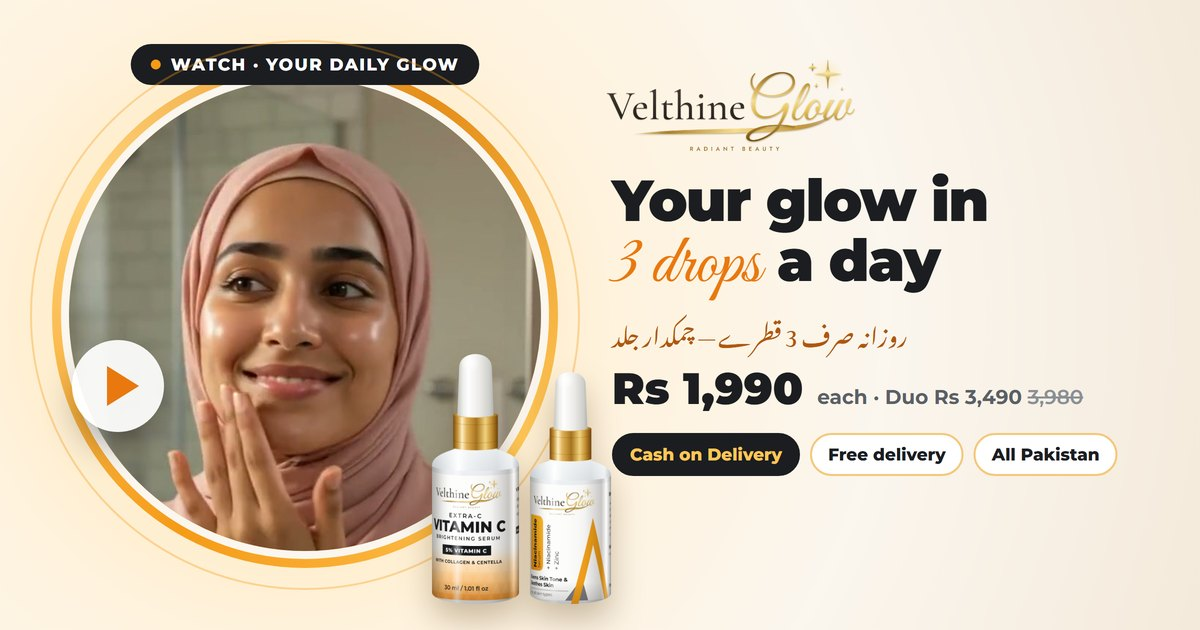
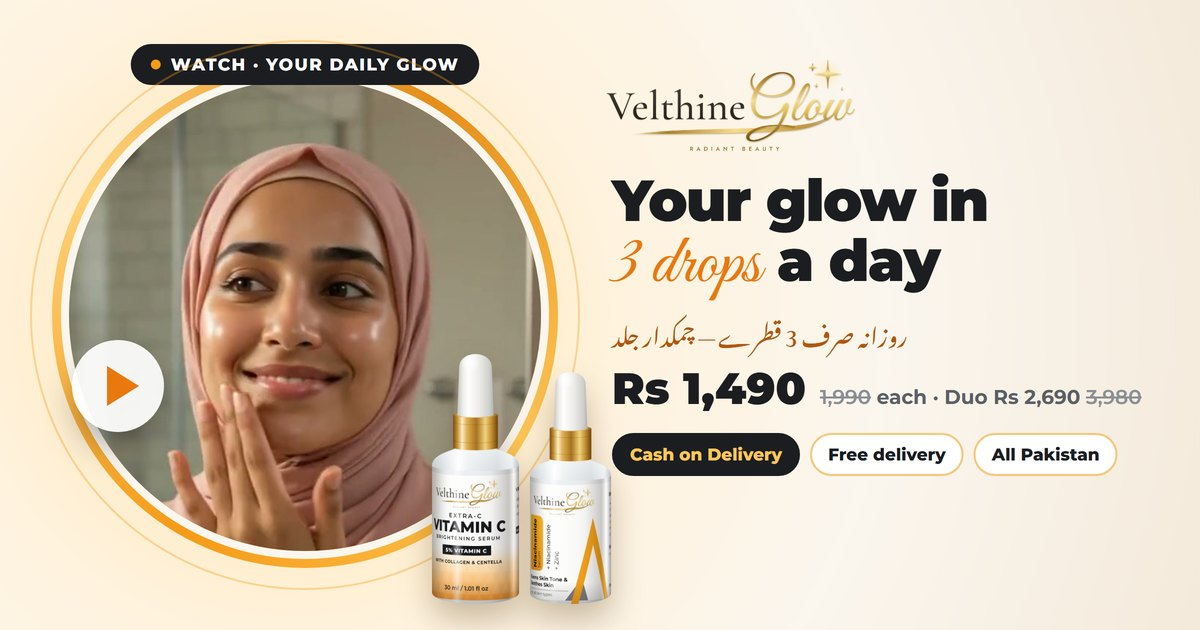
Prices: Rs 1,490 each (was 1,990), Glow Duo Rs 2,690 (was 3,980); schema, share card, llms.txt

Changed region(s): [[0.5858, 0.573, 0.9558, 0.6635]]

diff --git a/index.html b/index.html
@@ -4,7 +4,7 @@
 <meta charset="utf-8">
 <meta name="viewport" content="width=device-width, initial-scale=1">
 <title>Vitamin C &amp; Niacinamide Serum Price in Pakistan | VelthineGlow</title>
-<meta name="description" content="Dermatologist-tested vitamin C serum for glowing skin and niacinamide 10% + zinc 1% serum for oily skin. Rs 1,990 each. Cash on Delivery all over Pakistan.">
+<meta name="description" content="Dermatologist-tested vitamin C serum for glowing skin and niacinamide 10% + zinc 1% serum for oily skin. Rs 1,490 each. Cash on Delivery all over Pakistan.">
 <meta name="keywords" content="dermatologist tested serum, vitamin c serum, vitamin c serum price in pakistan, best vitamin c serum in pakistan, niacinamide serum, niacinamide serum price in pakistan, niacinamide 10% zinc 1% serum">
 <meta name="robots" content="index, follow, max-image-preview:large, max-snippet:-1">
 <link rel="canonical" href="https://velthineglow.com/">
@@ -17,7 +17,7 @@
 <meta name="theme-color" content="#F5A21B">
 <meta property="og:type" content="website">
 <meta property="og:site_name" content="VelthineGlow">
-<meta property="og:title" content="Your Glow in 3 Drops a Day | Rs 1,990 · Cash on Delivery | VelthineGlow">
+<meta property="og:title" content="Your Glow in 3 Drops a Day | Rs 1,490 · Cash on Delivery | VelthineGlow">
 <meta property="og:description" content="Dull skin, oily skin or dark spots? Vitamin C for the morning + Niacinamide 10% for the night. Free delivery and Cash on Delivery all over Pakistan. Order on WhatsApp in 1 minute.">
 <meta property="og:url" content="https://velthineglow.com/">
 <meta property="og:image" content="https://velthineglow.com/img/og-share.jpg">
@@ -25,7 +25,7 @@
 <meta property="og:image:type" content="image/jpeg">
 <meta property="og:image:width" content="1200">
 <meta property="og:image:height" content="630">
-<meta property="og:image:alt" content="VelthineGlow: watch the 3-drop daily glow routine. Vitamin C and Niacinamide serums, Rs 1,990 each, Cash on Delivery">
+<meta property="og:image:alt" content="VelthineGlow: watch the 3-drop daily glow routine. Vitamin C and Niacinamide serums, Rs 1,490 each, Cash on Delivery">
 <meta property="og:video" content="https://velthineglow.com/img/hero-glow.mp4">
 <meta property="og:video:secure_url" content="https://velthineglow.com/img/hero-glow.mp4">
 <meta property="og:video:type" content="video/mp4">
@@ -33,15 +33,15 @@
 <meta property="og:video:height" content="640">
 <meta property="og:locale" content="en_PK">
 <meta name="twitter:card" content="summary_large_image">
-<meta name="twitter:title" content="Your Glow in 3 Drops a Day | Rs 1,990 · Cash on Delivery | VelthineGlow">
+<meta name="twitter:title" content="Your Glow in 3 Drops a Day | Rs 1,490 · Cash on Delivery | VelthineGlow">
 <meta name="twitter:description" content="Dull skin, oily skin or dark spots? Vitamin C for the morning + Niacinamide 10% for the night. Free delivery and Cash on Delivery all over Pakistan. Order on WhatsApp in 1 minute.">
 <meta name="twitter:image" content="https://velthineglow.com/img/og-share.jpg">
-<meta name="twitter:image:alt" content="VelthineGlow: watch the 3-drop daily glow routine. Vitamin C and Niacinamide serums, Rs 1,990 each, Cash on Delivery">
+<meta name="twitter:image:alt" content="VelthineGlow: watch the 3-drop daily glow routine. Vitamin C and Niacinamide serums, Rs 1,490 each, Cash on Delivery">
 <link rel="preconnect" href="https://fonts.googleapis.com">
 <link rel="preconnect" href="https://fonts.gstatic.com" crossorigin>
 <link href="https://fonts.googleapis.com/css2?family=Montserrat:wght@400;500;600;700;800;900&family=Cormorant+Garamond:wght@700&family=Great+Vibes&family=Noto+Nastaliq+Urdu&display=swap" rel="stylesheet">
 <link rel="preload" as="image" href="img/logo-mark.webp" type="image/webp">
-<link rel="stylesheet" href="style.css?v=20261028x">
+<link rel="stylesheet" href="style.css?v=20261030p">
 <script type="application/ld+json">
 {
  "@context": "https://schema.org",
@@ -99,7 +99,7 @@
    "@id": "https://velthineglow.com/#webpage",
    "url": "https://velthineglow.com/",
    "name": "Vitamin C & Niacinamide Serum Price in Pakistan | VelthineGlow",
-   "description": "Dermatologist-tested vitamin C serum for glowing skin and niacinamide 10% + zinc 1% serum for oily skin. Rs 1,990 each. Cash on Delivery all over Pakistan.",
+   "description": "Dermatologist-tested vitamin C serum for glowing skin and niacinamide 10% + zinc 1% serum for oily skin. Rs 1,490 each. Cash on Delivery all over Pakistan.",
    "inLanguage": "en-PK",
    "isPartOf": {
     "@id": "https://velthineglow.com/#website"
@@ -138,7 +138,7 @@
    "offers": {
     "@type": "Offer",
     "url": "https://velthineglow.com/#order",
-    "price": "1990",
+    "price": "1490",
     "priceCurrency": "PKR",
     "priceValidUntil": "2027-12-31",
     "availability": "https://schema.org/InStock",
@@ -210,7 +210,7 @@
    "offers": {
     "@type": "Offer",
     "url": "https://velthineglow.com/#order",
-    "price": "1990",
+    "price": "1490",
     "priceCurrency": "PKR",
     "priceValidUntil": "2027-12-31",
     "availability": "https://schema.org/InStock",
@@ -287,7 +287,7 @@
    "offers": {
     "@type": "Offer",
     "url": "https://velthineglow.com/#order",
-    "price": "3490",
+    "price": "2690",
     "priceCurrency": "PKR",
     "priceValidUntil": "2027-12-31",
     "availability": "https://schema.org/InStock",
@@ -425,7 +425,7 @@
      "name": "What is the vitamin C serum price in Pakistan?",
      "acceptedAnswer": {
       "@type": "Answer",
-      "text": "Our Extra-C Vitamin C Serum (30 ml) costs Rs 1,990, with Cash on Delivery all over Pakistan. Get it with the niacinamide serum in the Glow Duo for Rs 3,490."
+      "text": "Our Extra-C Vitamin C Serum (30 ml) costs Rs 1,490, with Cash on Delivery all over Pakistan. Get it with the niacinamide serum in the Glow Duo for Rs 2,690."
      }
     },
     {
@@ -433,7 +433,7 @@
      "name": "What is the niacinamide serum price in Pakistan?",
      "acceptedAnswer": {
       "@type": "Answer",
-      "text": "Our Niacinamide 10% + Zinc 1% Serum (30 ml) costs Rs 1,990. Delivery is free all over Pakistan."
+      "text": "Our Niacinamide 10% + Zinc 1% Serum (30 ml) costs Rs 1,490. Delivery is free all over Pakistan."
      }
     },
     {
@@ -556,16 +556,16 @@
   <div class="topbar-track">
     <span><svg class="ic ic-tb" viewBox="0 0 24 24" width="24" height="24" fill="none" stroke="currentColor" stroke-width="2" stroke-linecap="round" stroke-linejoin="round" aria-hidden="true"><path d="M14 18V6a2 2 0 0 0-2-2H4a2 2 0 0 0-2 2v11a1 1 0 0 0 1 1h2"/><path d="M15 18H9"/><path d="M19 18h2a1 1 0 0 0 1-1v-3.65a1 1 0 0 0-.22-.62l-3.48-4.35A1 1 0 0 0 17.52 8H14"/><circle cx="17" cy="18" r="2"/><circle cx="7" cy="18" r="2"/></svg> Free delivery all over Pakistan — on every order</span>
     <span><svg class="ic ic-tb" viewBox="0 0 24 24" width="24" height="24" fill="none" stroke="currentColor" stroke-width="2" stroke-linecap="round" stroke-linejoin="round" aria-hidden="true"><rect width="20" height="12" x="2" y="6" rx="2"/><circle cx="12" cy="12" r="2"/><path d="M6 12h.01M18 12h.01"/></svg> Cash on Delivery — pay when you get it</span>
-    <span><svg class="ic ic-tb" viewBox="0 0 24 24" width="24" height="24" fill="none" stroke="currentColor" stroke-width="2" stroke-linecap="round" stroke-linejoin="round" aria-hidden="true"><path d="M9.94 15.5A2 2 0 0 0 8.5 14.06l-6.13-1.58a.5.5 0 0 1 0-.96L8.5 9.94A2 2 0 0 0 9.94 8.5l1.58-6.13a.5.5 0 0 1 .96 0L14.06 8.5A2 2 0 0 0 15.5 9.94l6.13 1.58a.5.5 0 0 1 0 .96L15.5 14.06a2 2 0 0 0-1.44 1.44l-1.58 6.13a.5.5 0 0 1-.96 0z"/></svg> This week's Glow Duo offer: save Rs 490</span>
+    <span><svg class="ic ic-tb" viewBox="0 0 24 24" width="24" height="24" fill="none" stroke="currentColor" stroke-width="2" stroke-linecap="round" stroke-linejoin="round" aria-hidden="true"><path d="M9.94 15.5A2 2 0 0 0 8.5 14.06l-6.13-1.58a.5.5 0 0 1 0-.96L8.5 9.94A2 2 0 0 0 9.94 8.5l1.58-6.13a.5.5 0 0 1 .96 0L14.06 8.5A2 2 0 0 0 15.5 9.94l6.13 1.58a.5.5 0 0 1 0 .96L15.5 14.06a2 2 0 0 0-1.44 1.44l-1.58 6.13a.5.5 0 0 1-.96 0z"/></svg> This week's Glow Duo offer: save Rs 1,290</span>
     <span class="ur-in" lang="ur" dir="rtl"><svg class="ic ic-tb" viewBox="0 0 24 24" width="24" height="24" fill="none" stroke="currentColor" stroke-width="2" stroke-linecap="round" stroke-linejoin="round" aria-hidden="true"><path d="M14 18V6a2 2 0 0 0-2-2H4a2 2 0 0 0-2 2v11a1 1 0 0 0 1 1h2"/><path d="M15 18H9"/><path d="M19 18h2a1 1 0 0 0 1-1v-3.65a1 1 0 0 0-.22-.62l-3.48-4.35A1 1 0 0 0 17.52 8H14"/><circle cx="17" cy="18" r="2"/><circle cx="7" cy="18" r="2"/></svg> پورے پاکستان میں ہر آرڈر پر فری ڈیلیوری</span>
     <span class="ur-in" lang="ur" dir="rtl"><svg class="ic ic-tb" viewBox="0 0 24 24" width="24" height="24" fill="none" stroke="currentColor" stroke-width="2" stroke-linecap="round" stroke-linejoin="round" aria-hidden="true"><rect width="20" height="12" x="2" y="6" rx="2"/><circle cx="12" cy="12" r="2"/><path d="M6 12h.01M18 12h.01"/></svg> کیش آن ڈیلیوری — پارسل ملے تو پیسے دیں</span>
-    <span class="ur-in" lang="ur" dir="rtl"><svg class="ic ic-tb" viewBox="0 0 24 24" width="24" height="24" fill="none" stroke="currentColor" stroke-width="2" stroke-linecap="round" stroke-linejoin="round" aria-hidden="true"><path d="M9.94 15.5A2 2 0 0 0 8.5 14.06l-6.13-1.58a.5.5 0 0 1 0-.96L8.5 9.94A2 2 0 0 0 9.94 8.5l1.58-6.13a.5.5 0 0 1 .96 0L14.06 8.5A2 2 0 0 0 15.5 9.94l6.13 1.58a.5.5 0 0 1 0 .96L15.5 14.06a2 2 0 0 0-1.44 1.44l-1.58 6.13a.5.5 0 0 1-.96 0z"/></svg> اس ہفتے گلو ڈو پر 490 روپے کی بچت</span>
+    <span class="ur-in" lang="ur" dir="rtl"><svg class="ic ic-tb" viewBox="0 0 24 24" width="24" height="24" fill="none" stroke="currentColor" stroke-width="2" stroke-linecap="round" stroke-linejoin="round" aria-hidden="true"><path d="M9.94 15.5A2 2 0 0 0 8.5 14.06l-6.13-1.58a.5.5 0 0 1 0-.96L8.5 9.94A2 2 0 0 0 9.94 8.5l1.58-6.13a.5.5 0 0 1 .96 0L14.06 8.5A2 2 0 0 0 15.5 9.94l6.13 1.58a.5.5 0 0 1 0 .96L15.5 14.06a2 2 0 0 0-1.44 1.44l-1.58 6.13a.5.5 0 0 1-.96 0z"/></svg> اس ہفتے گلو ڈو پر 1,290 روپے کی بچت</span>
     <span><svg class="ic ic-tb" viewBox="0 0 24 24" width="24" height="24" fill="none" stroke="currentColor" stroke-width="2" stroke-linecap="round" stroke-linejoin="round" aria-hidden="true"><path d="M14 18V6a2 2 0 0 0-2-2H4a2 2 0 0 0-2 2v11a1 1 0 0 0 1 1h2"/><path d="M15 18H9"/><path d="M19 18h2a1 1 0 0 0 1-1v-3.65a1 1 0 0 0-.22-.62l-3.48-4.35A1 1 0 0 0 17.52 8H14"/><circle cx="17" cy="18" r="2"/><circle cx="7" cy="18" r="2"/></svg> Free delivery all over Pakistan — on every order</span>
     <span><svg class="ic ic-tb" viewBox="0 0 24 24" width="24" height="24" fill="none" stroke="currentColor" stroke-width="2" stroke-linecap="round" stroke-linejoin="round" aria-hidden="true"><rect width="20" height="12" x="2" y="6" rx="2"/><circle cx="12" cy="12" r="2"/><path d="M6 12h.01M18 12h.01"/></svg> Cash on Delivery — pay when you get it</span>
-    <span><svg class="ic ic-tb" viewBox="0 0 24 24" width="24" height="24" fill="none" stroke="currentColor" stroke-width="2" stroke-linecap="round" stroke-linejoin="round" aria-hidden="true"><path d="M9.94 15.5A2 2 0 0 0 8.5 14.06l-6.13-1.58a.5.5 0 0 1 0-.96L8.5 9.94A2 2 0 0 0 9.94 8.5l1.58-6.13a.5.5 0 0 1 .96 0L14.06 8.5A2 2 0 0 0 15.5 9.94l6.13 1.58a.5.5 0 0 1 0 .96L15.5 14.06a2 2 0 0 0-1.44 1.44l-1.58 6.13a.5.5 0 0 1-.96 0z"/></svg> This week's Glow Duo offer: save Rs 490</span>
+    <span><svg class="ic ic-tb" viewBox="0 0 24 24" width="24" height="24" fill="none" stroke="currentColor" stroke-width="2" stroke-linecap="round" stroke-linejoin="round" aria-hidden="true"><path d="M9.94 15.5A2 2 0 0 0 8.5 14.06l-6.13-1.58a.5.5 0 0 1 0-.96L8.5 9.94A2 2 0 0 0 9.94 8.5l1.58-6.13a.5.5 0 0 1 .96 0L14.06 8.5A2 2 0 0 0 15.5 9.94l6.13 1.58a.5.5 0 0 1 0 .96L15.5 14.06a2 2 0 0 0-1.44 1.44l-1.58 6.13a.5.5 0 0 1-.96 0z"/></svg> This week's Glow Duo offer: save Rs 1,290</span>
     <span class="ur-in" lang="ur" dir="rtl"><svg class="ic ic-tb" viewBox="0 0 24 24" width="24" height="24" fill="none" stroke="currentColor" stroke-width="2" stroke-linecap="round" stroke-linejoin="round" aria-hidden="true"><path d="M14 18V6a2 2 0 0 0-2-2H4a2 2 0 0 0-2 2v11a1 1 0 0 0 1 1h2"/><path d="M15 18H9"/><path d="M19 18h2a1 1 0 0 0 1-1v-3.65a1 1 0 0 0-.22-.62l-3.48-4.35A1 1 0 0 0 17.52 8H14"/><circle cx="17" cy="18" r="2"/><circle cx="7" cy="18" r="2"/></svg> پورے پاکستان میں ہر آرڈر پر فری ڈیلیوری</span>
     <span class="ur-in" lang="ur" dir="rtl"><svg class="ic ic-tb" viewBox="0 0 24 24" width="24" height="24" fill="none" stroke="currentColor" stroke-width="2" stroke-linecap="round" stroke-linejoin="round" aria-hidden="true"><rect width="20" height="12" x="2" y="6" rx="2"/><circle cx="12" cy="12" r="2"/><path d="M6 12h.01M18 12h.01"/></svg> کیش آن ڈیلیوری — پارسل ملے تو پیسے دیں</span>
-    <span class="ur-in" lang="ur" dir="rtl"><svg class="ic ic-tb" viewBox="0 0 24 24" width="24" height="24" fill="none" stroke="currentColor" stroke-width="2" stroke-linecap="round" stroke-linejoin="round" aria-hidden="true"><path d="M9.94 15.5A2 2 0 0 0 8.5 14.06l-6.13-1.58a.5.5 0 0 1 0-.96L8.5 9.94A2 2 0 0 0 9.94 8.5l1.58-6.13a.5.5 0 0 1 .96 0L14.06 8.5A2 2 0 0 0 15.5 9.94l6.13 1.58a.5.5 0 0 1 0 .96L15.5 14.06a2 2 0 0 0-1.44 1.44l-1.58 6.13a.5.5 0 0 1-.96 0z"/></svg> اس ہفتے گلو ڈو پر 490 روپے کی بچت</span>
+    <span class="ur-in" lang="ur" dir="rtl"><svg class="ic ic-tb" viewBox="0 0 24 24" width="24" height="24" fill="none" stroke="currentColor" stroke-width="2" stroke-linecap="round" stroke-linejoin="round" aria-hidden="true"><path d="M9.94 15.5A2 2 0 0 0 8.5 14.06l-6.13-1.58a.5.5 0 0 1 0-.96L8.5 9.94A2 2 0 0 0 9.94 8.5l1.58-6.13a.5.5 0 0 1 .96 0L14.06 8.5A2 2 0 0 0 15.5 9.94l6.13 1.58a.5.5 0 0 1 0 .96L15.5 14.06a2 2 0 0 0-1.44 1.44l-1.58 6.13a.5.5 0 0 1-.96 0z"/></svg> اس ہفتے گلو ڈو پر 1,290 روپے کی بچت</span>
   </div>
 </div>
 
@@ -607,9 +607,9 @@
     <p class="lead">Our niacinamide serum (10% Niacinamide + 1% Zinc) is for oily skin, open pores and dark patches. Our vitamin C serum is for glowing skin and an even skin tone. Simple to use and gentle on all skin types.</p>
 
     <div class="hero-price">
-      <div><small>Each serum</small><strong>Rs 1,990</strong></div>
+      <div><small>Each serum</small><strong>Rs 1,490 <s>Rs 1,990</s></strong></div>
       <div class="sep"></div>
-      <div><small>Glow Duo</small><strong>Rs 3,490 <s>Rs 3,980</s></strong></div>
+      <div><small>Glow Duo</small><strong>Rs 2,690 <s>Rs 3,980</s></strong></div>
     </div>
 
     <div class="hero-cta">
@@ -665,7 +665,7 @@
           <li>Soothes skin and makes the skin barrier stronger<span class="ur" lang="ur" dir="rtl">اسکن کو سکون دیتا ہے اور اسکن بیریئر مضبوط کرتا ہے</span></li>
         </ul>
         <div class="pcard-foot">
-          <div class="price"><strong>Rs 1,990</strong><small>Niacinamide serum price in Pakistan · 30 ml</small></div>
+          <div class="price"><strong>Rs 1,490 <s>Rs 1,990</s></strong><small>Niacinamide serum price in Pakistan · 30 ml</small></div>
           <a href="#order" class="btn btn-orange js-pick" data-pick="niac">Order this</a>
         </div>
       </div>
@@ -687,7 +687,7 @@
           <li>Light, fast-absorbing and hydrating<span class="ur" lang="ur" dir="rtl">ہلکا، فوراً جذب ہو جاتا ہے اور اسکن کو نمی دیتا ہے</span></li>
         </ul>
         <div class="pcard-foot">
-          <div class="price"><strong>Rs 1,990</strong><small>Vitamin C serum price in Pakistan · 30 ml</small></div>
+          <div class="price"><strong>Rs 1,490 <s>Rs 1,990</s></strong><small>Vitamin C serum price in Pakistan · 30 ml</small></div>
           <a href="#order" class="btn btn-orange js-pick" data-pick="vitc">Order this</a>
         </div>
       </div>
@@ -823,7 +823,7 @@
       <h2>The Glow Duo</h2>
       <p class="duo-sub">Vitamin C + Niacinamide · <span class="ur-in" lang="ur" dir="rtl">وٹامن سی + نیاسینامائیڈ</span></p>
       <p>Get both serums together — Vitamin C for the morning, Niacinamide for the night. Free delivery included.<span class="ur" lang="ur" dir="rtl">دونوں سیرم اکٹھے لیں — صبح کے لیے وٹامن سی، رات کے لیے نیاسینامائیڈ۔ ڈیلیوری بالکل فری۔</span></p>
-      <div class="deal-price"><strong>Rs 3,490</strong><s>Rs 3,980</s><span class="save">Save Rs 490</span></div>
+      <div class="deal-price"><strong>Rs 2,690</strong><s>Rs 3,980</s><span class="save">Save Rs 1,290</span></div>
       <div class="countdown" id="countdown" aria-live="polite">
         <div><b id="cdD">00</b><small>Days<span class="ur-in" lang="ur" dir="rtl">دن</span></small></div>
         <div><b id="cdH">00</b><small>Hours<span class="ur-in" lang="ur" dir="rtl">گھنٹے</span></small></div>
@@ -870,9 +870,9 @@
 
     <form class="oform reveal" id="orderForm" novalidate>
       <div class="lines">
-        <div class="line" data-id="niac"><div class="ln-info"><b>Niacinamide 10% + Zinc 1% Serum</b><small>Rs 1,990</small></div><div class="qty"><button type="button" data-d="-1" aria-label="Less">−</button><span>0</span><button type="button" data-d="1" aria-label="More">+</button></div></div>
-        <div class="line" data-id="vitc"><div class="ln-info"><b>Extra-C Vitamin C Serum</b><small>Rs 1,990</small></div><div class="qty"><button type="button" data-d="-1" aria-label="Less">−</button><span>0</span><button type="button" data-d="1" aria-label="More">+</button></div></div>
-        <div class="line best" data-id="duo"><div class="ln-info"><b>Glow Duo (both) <em>Best value</em></b><small>Rs 3,490</small></div><div class="qty"><button type="button" data-d="-1" aria-label="Less">−</button><span>1</span><button type="button" data-d="1" aria-label="More">+</button></div></div>
+        <div class="line" data-id="niac"><div class="ln-info"><b>Niacinamide 10% + Zinc 1% Serum</b><small>Rs 1,490</small></div><div class="qty"><button type="button" data-d="-1" aria-label="Less">−</button><span>0</span><button type="button" data-d="1" aria-label="More">+</button></div></div>
+        <div class="line" data-id="vitc"><div class="ln-info"><b>Extra-C Vitamin C Serum</b><small>Rs 1,490</small></div><div class="qty"><button type="button" data-d="-1" aria-label="Less">−</button><span>0</span><button type="button" data-d="1" aria-label="More">+</button></div></div>
+        <div class="line best" data-id="duo"><div class="ln-info"><b>Glow Duo (both) <em>Best value</em></b><small>Rs 2,690</small></div><div class="qty"><button type="button" data-d="-1" aria-label="Less">−</button><span>1</span><button type="button" data-d="1" aria-label="More">+</button></div></div>
       </div>
 
       <div class="fields">
@@ -895,9 +895,9 @@
       </div>
 
       <div class="totals">
-        <div><span>Subtotal · <span class="ur-in" lang="ur" dir="rtl">ٹوٹل</span></span><b id="tSub">Rs 3,490</b></div>
+        <div><span>Subtotal · <span class="ur-in" lang="ur" dir="rtl">ٹوٹل</span></span><b id="tSub">Rs 2,690</b></div>
         <div><span>Delivery · <span class="ur-in" lang="ur" dir="rtl">ڈیلیوری</span></span><b id="tDel">Free</b></div>
-        <div class="grand"><span>Total (pay on delivery) · <span class="ur-in" lang="ur" dir="rtl">پارسل ملنے پر دیں</span></span><b id="tTot">Rs 3,490</b></div>
+        <div class="grand"><span>Total (pay on delivery) · <span class="ur-in" lang="ur" dir="rtl">پارسل ملنے پر دیں</span></span><b id="tTot">Rs 2,690</b></div>
       </div>
       <p class="form-err" id="formErr" role="alert"></p>
       <p class="form-ok" id="formOk" role="status"></p>
@@ -917,8 +917,8 @@
     <details class="reveal"><summary><span>What does vitamin C serum do for the skin?<span class="ur" lang="ur" dir="rtl">وٹامن سی سیرم اسکن کے لیے کیا کرتا ہے؟</span></span></summary><p>Vitamin C serum is an antioxidant serum that brightens dull skin, evens out skin tone and helps protect the skin from daily pollution. VelthineGlow Extra-C has 5% stabilised vitamin C with collagen and centella.<span class="ur" lang="ur" dir="rtl">وٹامن سی ایک اینٹی آکسیڈنٹ سیرم ہے جو ڈل اسکن پر نکھار لاتا ہے، رنگت ایک جیسی کرتا ہے اور روز کی دھول مٹی سے اسکن کو بچاتا ہے۔ ویلتھین گلو ایکسٹرا سی میں 5% اسٹیبل وٹامن سی، کولیجن اور سینٹیلا ہے۔</span></p></details>
     <details class="reveal"><summary><span>How do I choose the best vitamin C serum in Pakistan?<span class="ur" lang="ur" dir="rtl">پاکستان میں بہترین وٹامن سی سیرم کیسے چنیں؟</span></span></summary><p>Check three things: a stable form of vitamin C so it keeps working after opening, a strength that suits you (5% is gentle for daily use and first-time users), and a dropper bottle that keeps air out. Always use it with sunscreen in the day.<span class="ur" lang="ur" dir="rtl">تین چیزیں دیکھیں: اسٹیبل وٹامن سی تاکہ بوتل کھلنے کے بعد بھی اثر رہے، صحیح طاقت (روز لگانے اور پہلی بار استعمال کرنے والوں کے لیے 5% نرم ہے)، اور ڈراپر بوتل جو ہوا سے بچائے۔ دن میں ہمیشہ سن اسکرین کے ساتھ لگائیں۔</span></p></details>
     <details class="reveal"><summary><span>Is niacinamide 10% with zinc 1% good for daily use?<span class="ur" lang="ur" dir="rtl">کیا نیاسینامائیڈ 10% اور زنک 1% روز لگا سکتے ہیں؟</span></span></summary><p>Yes, for most skin types. Niacinamide 10% with zinc 1% is a popular strength for oily and blemish-prone skin. Use 3–4 drops once a day at night, and do a patch test first if your skin is very sensitive.<span class="ur" lang="ur" dir="rtl">جی ہاں، زیادہ تر اسکن کے لیے۔ آئلی اور دانوں والی اسکن کے لیے یہ سب سے مشہور طاقت ہے۔ روز رات کو 3 سے 4 قطرے لگائیں، اور اگر اسکن بہت حساس ہے تو پہلے پیچ ٹیسٹ کر لیں۔</span></p></details>
-    <details class="reveal"><summary><span>What is the vitamin C serum price in Pakistan?<span class="ur" lang="ur" dir="rtl">وٹامن سی سیرم کی پاکستان میں قیمت کیا ہے؟</span></span></summary><p>Our Extra-C Vitamin C Serum (30 ml) costs Rs 1,990, with Cash on Delivery all over Pakistan. Get it with the niacinamide serum in the Glow Duo for Rs 3,490.<span class="ur" lang="ur" dir="rtl">ہمارا ایکسٹرا سی وٹامن سی سیرم (30 ملی لیٹر) 1,990 روپے کا ہے، پورے پاکستان میں کیش آن ڈیلیوری۔ نیاسینامائیڈ سیرم کے ساتھ گلو ڈو صرف 3,490 روپے میں۔</span></p></details>
-    <details class="reveal"><summary><span>What is the niacinamide serum price in Pakistan?<span class="ur" lang="ur" dir="rtl">نیاسینامائیڈ سیرم کی پاکستان میں قیمت کیا ہے؟</span></span></summary><p>Our Niacinamide 10% + Zinc 1% Serum (30 ml) costs Rs 1,990. Delivery is free all over Pakistan.<span class="ur" lang="ur" dir="rtl">ہمارا نیاسینامائیڈ 10% + زنک 1% سیرم (30 ملی لیٹر) 1,990 روپے کا ہے۔ پورے پاکستان میں ڈیلیوری بالکل فری ہے۔</span></p></details>
+    <details class="reveal"><summary><span>What is the vitamin C serum price in Pakistan?<span class="ur" lang="ur" dir="rtl">وٹامن سی سیرم کی پاکستان میں قیمت کیا ہے؟</span></span></summary><p>Our Extra-C Vitamin C Serum (30 ml) costs Rs 1,490, with Cash on Delivery all over Pakistan. Get it with the niacinamide serum in the Glow Duo for Rs 2,690.<span class="ur" lang="ur" dir="rtl">ہمارا ایکسٹرا سی وٹامن سی سیرم (30 ملی لیٹر) 1,490 روپے کا ہے، پورے پاکستان میں کیش آن ڈیلیوری۔ نیاسینامائیڈ سیرم کے ساتھ گلو ڈو صرف 2,690 روپے میں۔</span></p></details>
+    <details class="reveal"><summary><span>What is the niacinamide serum price in Pakistan?<span class="ur" lang="ur" dir="rtl">نیاسینامائیڈ سیرم کی پاکستان میں قیمت کیا ہے؟</span></span></summary><p>Our Niacinamide 10% + Zinc 1% Serum (30 ml) costs Rs 1,490. Delivery is free all over Pakistan.<span class="ur" lang="ur" dir="rtl">ہمارا نیاسینامائیڈ 10% + زنک 1% سیرم (30 ملی لیٹر) 1,490 روپے کا ہے۔ پورے پاکستان میں ڈیلیوری بالکل فری ہے۔</span></p></details>
     <details class="reveal"><summary><span>Is vitamin C serum good for oily skin?<span class="ur" lang="ur" dir="rtl">کیا وٹامن سی سیرم آئلی اسکن کے لیے ٹھیک ہے؟</span></span></summary><p>Yes. Our vitamin C serum is light and water-based, so it does not feel greasy. If oil and pores are your main problem, use niacinamide serum at night as well.<span class="ur" lang="ur" dir="rtl">جی ہاں۔ ہمارا وٹامن سی سیرم ہلکا اور واٹر بیسڈ ہے، اس لیے چہرے پر چکنا نہیں لگتا۔ اگر آئل اور پورز آپ کا بڑا مسئلہ ہیں تو رات کو نیاسینامائیڈ سیرم بھی لگائیں۔</span></p></details>
     <details class="reveal"><summary><span>Which serum is best for oily skin?<span class="ur" lang="ur" dir="rtl">آئلی اسکن کے لیے کون سا سیرم بہتر ہے؟</span></span></summary><p>Niacinamide serum is best for oily skin because zinc controls oil and niacinamide removes open pores. Vitamin C serum is best for glowing skin and an even skin tone.<span class="ur" lang="ur" dir="rtl">آئلی اسکن کے لیے نیاسینامائیڈ سیرم بہترین ہے، کیونکہ زنک آئل کنٹرول کرتا ہے اور نیاسینامائیڈ کھلے پورز ختم کرتا ہے۔ گلو اور ایک جیسی رنگت کے لیے وٹامن سی سیرم بہترین ہے۔</span></p></details>
     <details class="reveal"><summary><span>Which serum is best for dark spots in Pakistan?<span class="ur" lang="ur" dir="rtl">پاکستان میں ڈارک اسپاٹس کے لیے بہترین سیرم کون سا ہے؟</span></span></summary><p>Our Niacinamide 10% + Zinc 1% Serum is the best serum for dark spots and post-blemish marks: niacinamide and alpha arbutin remove dark spots, and zinc controls oil. Use it at night and always wear sunscreen in the day.<span class="ur" lang="ur" dir="rtl">ہمارا نیاسینامائیڈ 10% + زنک 1% سیرم ڈارک اسپاٹس اور دانوں کے نشانوں کے لیے بہترین ہے — نیاسینامائیڈ اور الفا آربیوٹن ڈارک اسپاٹس ختم کرتے ہیں اور زنک آئل کنٹرول کرتا ہے۔ رات کو لگائیں اور دن میں سن اسکرین ضرور لگائیں۔</span></p></details>
@@ -997,13 +997,13 @@
 
 <!-- Mobile sticky bar + floating WhatsApp -->
 <div class="mbar" id="mbar">
-  <div><small>Glow Duo</small><b>Rs 3,490</b></div>
+  <div><small>Glow Duo</small><b>Rs 2,690</b></div>
   <a href="#order" class="btn btn-orange">Order Now — COD</a>
 </div>
 <a href="#" class="wa-float js-wa" data-msg="Assalam o Alaikum! I have a question about VelthineGlow serums." aria-label="Chat on WhatsApp">
   <svg viewBox="0 0 24 24" width="28" height="28"><path fill="#fff" d="M12 2a10 10 0 0 0-8.6 15.1L2 22l5-1.3A10 10 0 1 0 12 2Zm0 18.2a8.2 8.2 0 0 1-4.2-1.1l-.3-.2-3 .8.8-2.9-.2-.3A8.2 8.2 0 1 1 12 20.2Zm4.5-6.1c-.2-.1-1.5-.7-1.7-.8-.2-.1-.4-.1-.6.1l-.8 1c-.1.2-.3.2-.5.1a6.7 6.7 0 0 1-3.3-2.9c-.3-.4.3-.4.7-1.4.1-.2 0-.3 0-.4l-.8-1.8c-.2-.5-.4-.4-.6-.4h-.5a1 1 0 0 0-.7.3 3 3 0 0 0-.9 2.2 5.2 5.2 0 0 0 1.1 2.7 11.8 11.8 0 0 0 4.5 4c1.7.7 2.3.8 3.2.6.5-.1 1.5-.6 1.7-1.2.2-.6.2-1.1.2-1.2-.1-.1-.3-.2-.5-.3Z"/></svg>
 </a>
 
-<script src="script.js?v=20261028m" defer></script>
+<script src="script.js?v=20261030p" defer></script>
 </body>
 </html>

diff --git a/script.js b/script.js
@@ -1,6 +1,6 @@
 /* VelthineGlow sale page — interactions */
 const WHATSAPP = '923472616688'; // business WhatsApp number, international format without +
-const PRICES = { niac: 1990, vitc: 1990, duo: 3490 };
+const PRICES = { niac: 1490, vitc: 1490, duo: 2690 };
 const NAMES = { niac: 'Niacinamide 10% + Zinc 1% Serum', vitc: 'Extra-C Vitamin C Serum', duo: 'Glow Duo (Vitamin C + Niacinamide)' };
 const FREE_DELIVERY_FROM = 0, DELIVERY_FEE = 0; // free delivery on every order
 // Google Apps Script web-app URL (see google-sheet/SETUP.md). Leave empty to send orders to WhatsApp only.

diff --git a/style.css b/style.css
@@ -160,6 +160,7 @@ h2{font-size:clamp(2rem,4.4vw,3.2rem);font-weight:800}
 .pcard-foot{display:flex;align-items:center;justify-content:space-between;gap:16px;padding-top:20px;border-top:1px dashed var(--line)}
 .price strong{font-size:1.6rem;font-weight:800;display:block;line-height:1.1}
 .price small{color:var(--grey);font-size:.8rem}
+.price strong s{font-size:.55em;color:var(--grey);font-weight:600;margin-left:6px}
 
 /* Box section */
 .boxsec{display:grid;grid-template-columns:1fr 1fr;align-items:center;gap:40px;max-width:1240px;margin:0 auto}
